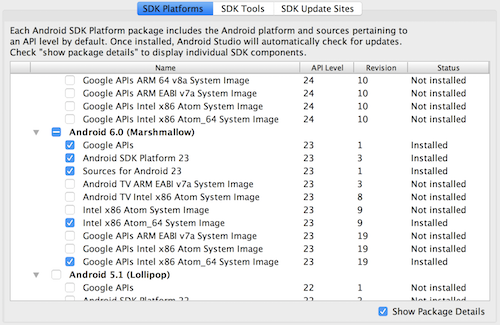
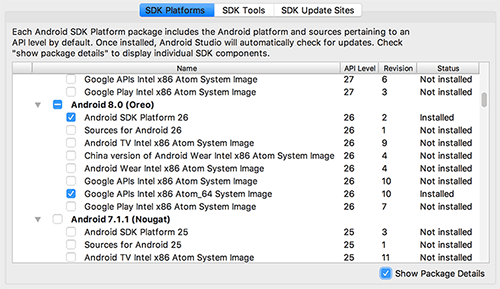
Changed install instructions to reference Android API level 26 instead of API level 23. (#492)

Changed region(s): [[0.0, 0.0, 0.99, 0.9965], [0.06, 0.7474, 0.09, 0.7785]]

diff --git a/docs/getting-started.md b/docs/getting-started.md
@@ -325,7 +325,7 @@ Once setup has finalized and you're presented with the Welcome screen, proceed t
 
 #### 2. Install the Android SDK
 
-Android Studio installs the latest Android SDK by default. Building a React Native app with native code, however, requires the `Android 6.0 (Marshmallow)` SDK in particular. Additional Android SDKs can be installed through the SDK Manager in Android Studio.
+Android Studio installs the latest Android SDK by default. Building a React Native app with native code, however, requires the `Android 8.0 (Oreo)` SDK in particular. Additional Android SDKs can be installed through the SDK Manager in Android Studio.
 
 The SDK Manager can be accessed from the "Welcome to Android Studio" screen. Click on "Configure", then select "SDK Manager".
 
@@ -341,11 +341,9 @@ The SDK Manager can be accessed from the "Welcome to Android Studio" screen. Cli
 
 > The SDK Manager can also be found within the Android Studio "Preferences" dialog, under **Appearance & Behavior** → **System Settings** → **Android SDK**.
 
-Select the "SDK Platforms" tab from within the SDK Manager, then check the box next to "Show Package Details" in the bottom right corner. Look for and expand the `Android 6.0 (Marshmallow)` entry, then make sure the following items are all checked:
+Select the "SDK Platforms" tab from within the SDK Manager, then check the box next to "Show Package Details" in the bottom right corner. Look for and expand the `Android 8.0 (Oreo)` entry, then make sure the following items are all checked:
 
-* `Google APIs`
-* `Android SDK Platform 23`
-* `Intel x86 Atom_64 System Image`
+* `Android SDK Platform 26`
 * `Google APIs Intel x86 Atom_64 System Image`
 
 <block class="native mac android" />
@@ -358,15 +356,15 @@ Select the "SDK Platforms" tab from within the SDK Manager, then check the box n
 
 <block class="native windows mac linux android" />
 
-Next, select the "SDK Tools" tab and check the box next to "Show Package Details" here as well. Look for and expand the "Android SDK Build-Tools" entry, then make sure that `23.0.1` is selected.
+Next, select the "SDK Tools" tab and check the box next to "Show Package Details" here as well. Look for and expand the "Android SDK Build-Tools" entry, then make sure that `26.0.3` is selected.
 
 <block class="native mac android" />
 
-![Android SDK Manager - 23.0.1 Build Tools](/react-native/docs/assets/GettingStartedAndroidSDKManagerSDKToolsMacOS.png)
+![Android SDK Manager - 26.0.3 Build Tools](/react-native/docs/assets/GettingStartedAndroidSDKManagerSDKToolsMacOS.png)
 
 <block class="native windows android" />
 
-![Android SDK Manager - 23.0.1 Build Tools](/react-native/docs/assets/GettingStartedAndroidSDKManagerSDKToolsWindows.png)
+![Android SDK Manager - 26.0.3 Build Tools](/react-native/docs/assets/GettingStartedAndroidSDKManagerSDKToolsWindows.png)
 
 <block class="native windows mac linux android" />
 
@@ -494,7 +492,7 @@ If you have just installed Android Studio, you will likely need to [create a new
 
 <block class="native mac windows linux android" />
 
-Select the "x86 Images" tab, then look for the **Marshmallow** API Level 23, x86_64 ABI image with a Android 6.0 (Google APIs) target.
+Select the "x86 Images" tab, then look for the **Oreo** API Level 26, x86_64 ABI image with a Android 8.0 (Google APIs) target.
 
 <block class="native linux android" />
 
